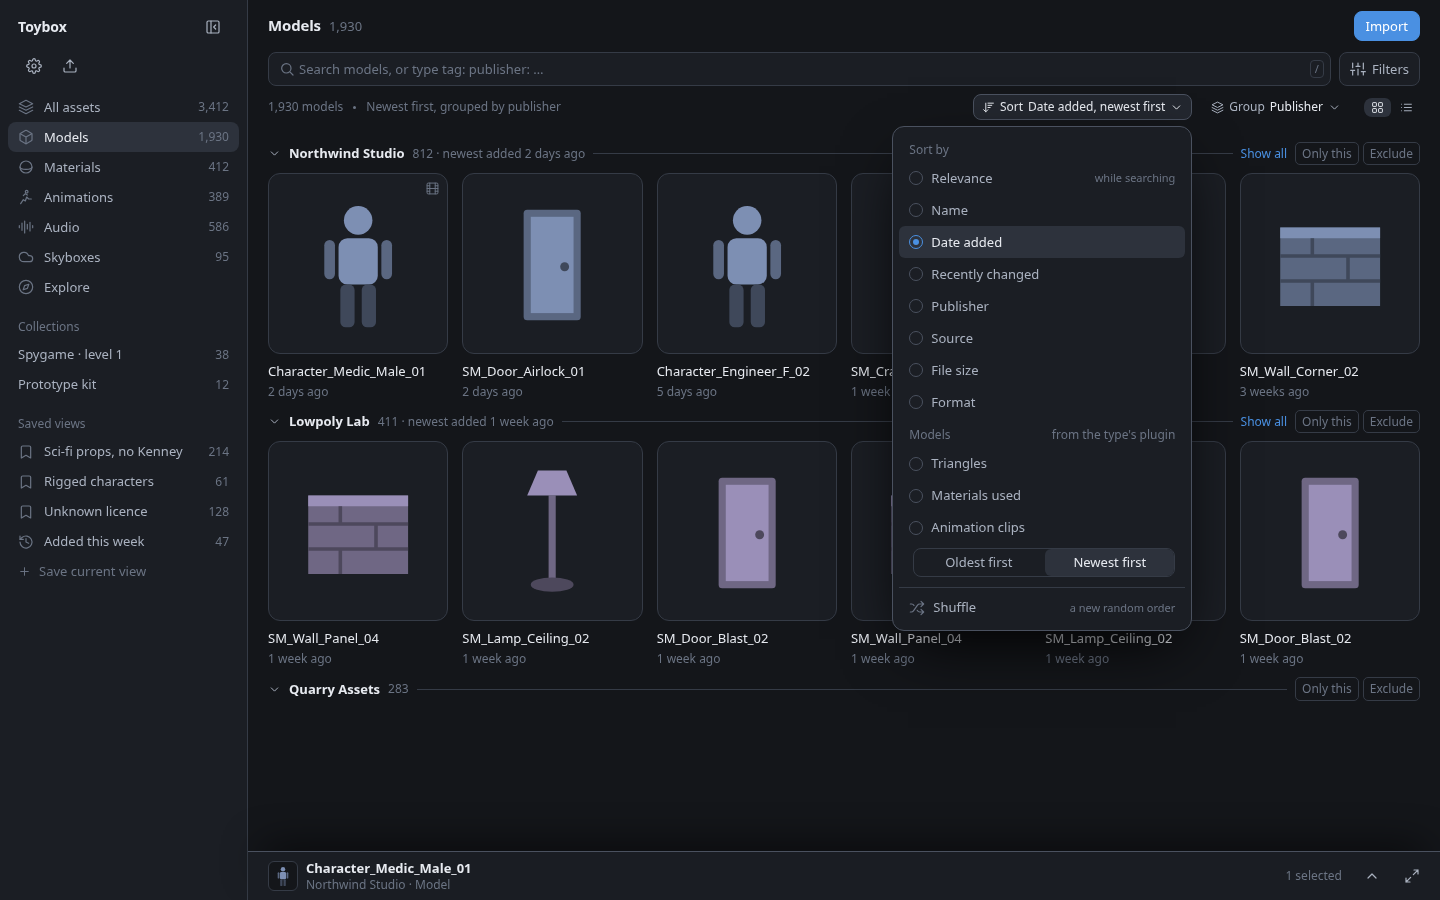
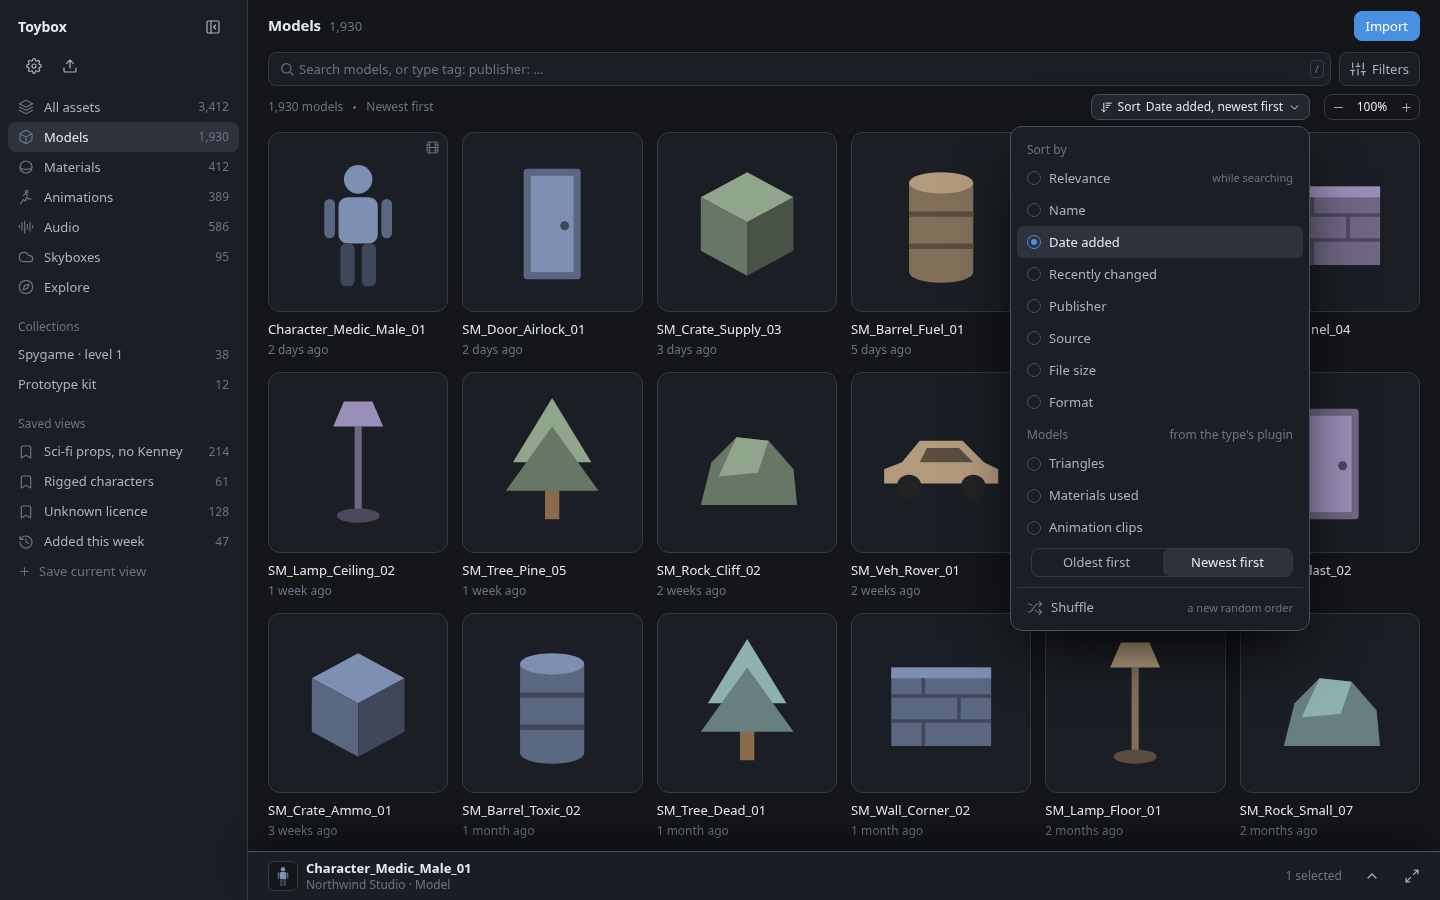
docs: drop grouping, add grid zoom and multi-select to the browsing concept

diff --git a/docs/future-work/asset-browsing/README.md b/docs/future-work/asset-browsing/README.md
@@ -1,6 +1,6 @@
 # Finding assets: filter, search, sort and explore
 
-A concept for how people find things in a Toybox library of any size and any asset type. It replaces the include-only facet rail and the name search with one query that can include and exclude, a sort and group control, an "All assets" view across types, saved views, and an Explore page. Nothing here is built yet.
+A concept for how people find things in a Toybox library of any size and any asset type. It replaces the include-only facet rail and the name search with one query that can include and exclude, a sort control and grid zoom, an "All assets" view across types, saved views, and an Explore page. Nothing here is built yet.
 
 ## What is there today
 
@@ -48,28 +48,30 @@ The rail moves out of the navigation sidebar into its own **Filters pane on the 
 - **Type-specific groups** come from the type's plugin: a range with a histogram (triangles, texture size, duration), and Any/Yes/No switches (rigged, has animations, loops). They show only when one type is in view.
 - A summary line under the query says what the exclusions remove ("Kitbash Works and Unknown licence hidden (−143)") with Undo, so a forgotten exclusion is visible.
 
-### 3. Sort and group
+### 3. Sort and zoom
 
-Sorting is part of the content, not the page header: the **result line** under the search bar holds the count and what is hidden, then **Sort** and **Group** buttons and the grid/list switch. Sort opens:
+Sorting is part of the content, not the page header: the **result line** under the search bar holds the count and what is hidden, then a **Sort** button and the grid **zoom** (− 100% +). The zoom sets the thumbnail size, the same `cardSize` that Ctrl+wheel already changes in `AssetGrid`; the grid stays the only layout (no list view). There is no grouping: publishers, sources and tags are filters already. Sort opens:
 
 - Sort by: Relevance (only while searching), Name, Date added, Recently changed, Publisher, Source, File size, Format, and keys the type's plugin declares (Triangles, Materials used, Clip length, Duration, Resolution).
 - Direction, worded for the key ("Newest first", "A → Z", "Largest first").
-- Group (its own button): None, Publisher, Source, Library, Type, Category, or a tag prefix (`biome:`). Each group has a header with its count and *Only this* / *Exclude*, and can collapse.
+
 - Shuffle: a new random order, for browsing.
 
 The sort is remembered per type.
 
-![Sort menu, grouped by publisher](screens/sort-group.png)
+![Sort menu and zoom in the result line](screens/sort-group.png)
 
 ### 4. All assets
 
 An **All assets** entry above the types shows every type in one grid. Type becomes a filter group like any other, tiles carry a small type label, and the summary counts per type. Shared fields (publisher, source, licence, format, tags, library, favourite, collection) filter across types; type-specific groups appear once a single type is chosen.
 
+Selecting several tiles (click, Shift-click, Ctrl-click as today) checks them, and the **existing selection bar** (Clear, Add to collection, Tag…, Copy to library…, Move to library…, Delete, Export) appears just above the preview tray, which then shows the selected thumbnails stacked with the count and the mix of types.
+
 ![All assets, filtered to one publisher](screens/all-types.png)
 
 ### 5. Saved views
 
-**Save as view** keeps the query, sort and grouping under a name in a *Saved views* group of the sidebar, with a live count. A view is a smart collection: it updates as the library changes. Built-in views can ship with it ("Added this week", "Unknown licence"). Views live in `user.db` next to collections; a view may also be saved into the library so a team shares it.
+**Save as view** keeps the query and sort under a name in a *Saved views* group of the sidebar, with a live count. A view is a smart collection: it updates as the library changes. Built-in views can ship with it ("Added this week", "Unknown licence"). Views live in `user.db` next to collections; a view may also be saved into the library so a team shares it.
 
 ### 6. Explore
 
@@ -109,7 +111,7 @@ favorites | any or yes or no | default any |
 collection | string | | as today
 libraries | string[] | | as today
 sort | SortKey | not null | key and direction
-group | GroupKey | | none, publisher, source, library, type, category or a tag prefix
+
 visibility | VisibilityRules | not null | unchanged
 
 ## Condition | One chip
@@ -143,7 +145,7 @@ All in `src-tauri/crates/toybox-core/src/infra/store/browse.rs` and `mod.rs` unl
 - **Sort keys.** `name` is indexed today (`assets_browse`, and `merged` in the browse index). New keys need columns: `added_at` (set at import; for existing rows, from the change log `revision` order as a stand-in), `changed_at` (from `revision`), `byte_size`. Sorting by publisher/source/format uses the existing `(type, publisher)` etc. indexes extended with `name, id`. Each sorted key needs an index of the form `(type, key, name, id)` so a page stays an index walk; the browse index `merged` stays name-ordered and is used only for the plain name sort.
 - **Plugin properties.** A type declares filterable and sortable properties (`key`, label, `number` or `boolean`, unit) in its asset-type contract (`docs/asset-types.md`); the importer writes them to a new `asset_props(asset_id, key, num, text)` table with an index on `(key, num, asset_id)`. Range histograms are one `GROUP BY` bucket query per property.
 - **All assets.** `a.type = ?` becomes `a.type IN (…)` or is dropped; the unconstrained path walks `merged` without the `type = ?1` prefix. Counts per type already exist (`type_counts`).
-- **Group by.** The page query orders by the group key first; group headers and their counts come from a `facet_counts`-style call for that field under the query.
+
 - **Relevance.** FTS5 `bm25()` when the driver is the text search; otherwise name order.
 
 `tbx` takes the same query string (`tbx list 'tag:sci-fi -publisher:"Kitbash Works" sort:added-'`), parsed by one shared parser in `toybox-core`, so the app's query bar and the CLI agree.
@@ -152,7 +154,7 @@ All in `src-tauri/crates/toybox-core/src/infra/store/browse.rs` and `mod.rs` unl
 
 1. Exclude and Any/All in the backend and `BrowseFilter`, three-state rows in the rail. Biggest gain, no schema change.
 2. Query bar with chips and suggestions (suggestions reuse `search_tags` and `facet_counts`), the shared query parser, `tbx` support.
-3. Sort keys `added`, `changed`, `size`, publisher, source; group by. Needs the new columns and indexes (catalog schema bump).
+3. Sort keys `added`, `changed`, `size`, publisher, source; the zoom control. Needs the new columns and indexes (catalog schema bump).
 4. All assets and saved views.
 5. Plugin-declared properties (`asset_props`), ranges and type-specific sort keys.
 6. Explore page and "Find more by" / "More like this" in the inspector.
